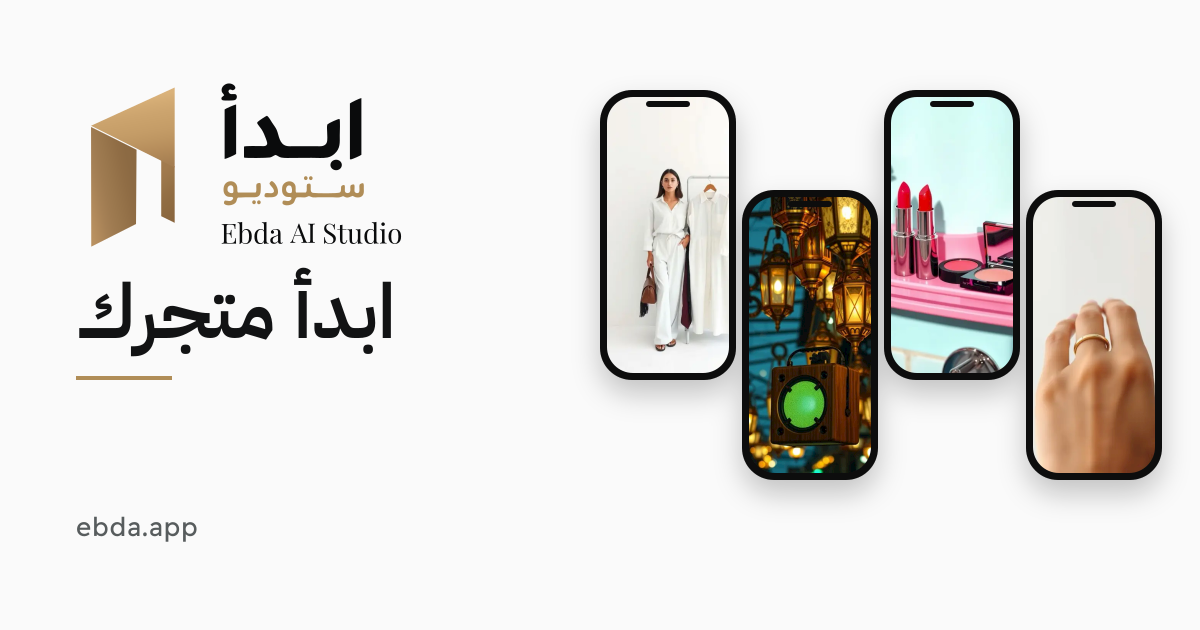
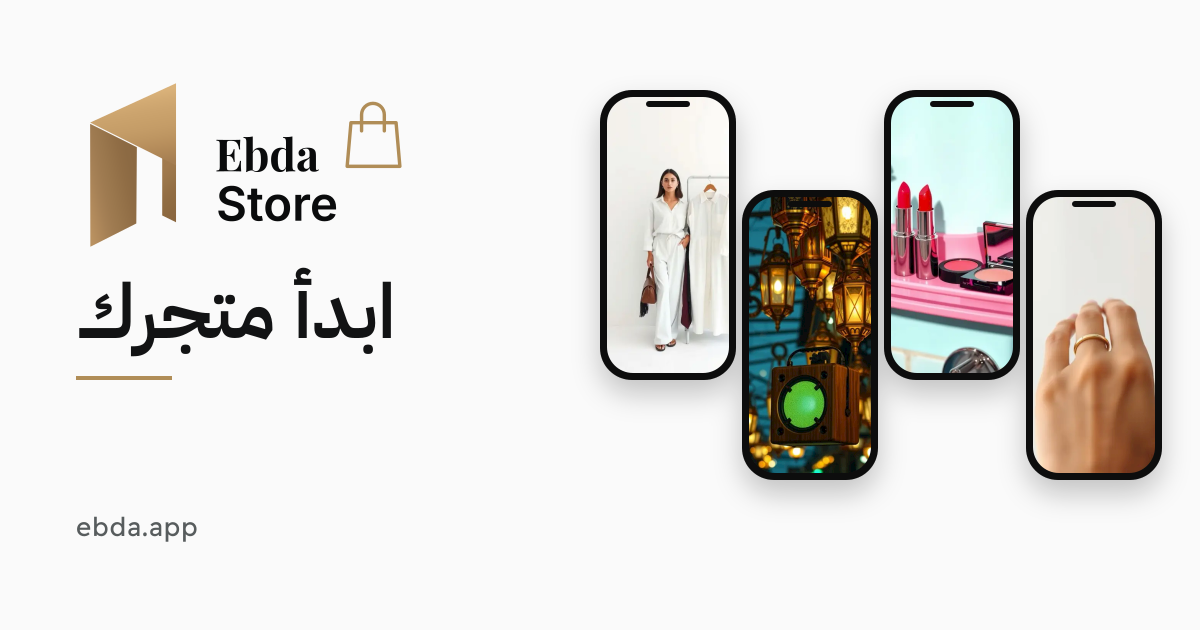
fix(brand): one-ink storefront badge mark, ebda store lockup for og and json-ld, login polish
Claude-Session: https://claude.ai/code/session_01GeHFETcBQ3jaGrN6Q6L6W5

diff --git a/apps/web/src/templates/shared/PoweredByEbda.tsx b/apps/web/src/templates/shared/PoweredByEbda.tsx
@@ -54,16 +54,23 @@ export function PoweredByEbda({ hidden = false }: { hidden?: boolean }) {
             the brand gold (#B08D57) measured 3.09:1 on a white footer (STOP 1, Ruling B1-27), and
             the line is the full muted tone (the old /70 alpha also fell under 4.5:1). On a
             merchant-coloured footer both take the shared footer ink ([data-footer-ink], footer-ink.ts). */}
-        {/* The approved Ebda mark (2026-10-22 pack), decorative: the link's aria-label carries the name. */}
-        {/* eslint-disable-next-line @next/next/no-img-element */}
-        <img
-          src="/logo.svg"
-          alt=""
+        {/* The approved Ebda mark (2026-10-22 pack) in ONE ink: currentColor, so it follows the footer ink
+            ([data-footer-ink], footer-ink.ts) on any merchant colour and is never gold on an arbitrary
+            background. The three faces keep their relative depth through opacity. Decorative. */}
+        <svg
+          viewBox="0 0 78.3 149"
           width={9}
           height={17}
-          className="h-4 w-auto"
+          className="h-4 w-auto shrink-0"
+          fill="currentColor"
           aria-hidden="true"
-        />
+          focusable="false"
+          data-testid="ebda-badge-mark"
+        >
+          <path d="M65.70 67.60 L78.30 73.90 L78.30 126.70 L65.70 120.50Z" opacity=".7" />
+          <path d="M0.00 35.80 L78.30 0.00 L78.30 74.90Z" />
+          <path d="M0.00 37.00 L42.60 58.30 L42.10 127.80 L0.20 149.00Z" opacity=".85" />
+        </svg>
         <span>{t('Powered by', 'مدعوم من')}</span>
         {/* IA-09 (W4): attribution never outweighs the store's own name: one muted weight. */}
         <span className="font-medium">{t(BRAND.product.nameEn, BRAND.product.nameAr)}</span>

diff --git a/tests/unit/powered-by-ebda-mark.test.tsx b/tests/unit/powered-by-ebda-mark.test.tsx
@@ -1,0 +1,35 @@
+// @vitest-environment jsdom
+import { describe, it, expect, vi } from 'vitest';
+import { render } from '@testing-library/react';
+import { readFileSync } from 'node:fs';
+import { join } from 'node:path';
+
+vi.mock('@web/contexts/LanguageContext', () => ({
+  useLanguage: () => ({ t: (en: string) => en, language: 'en', isRTL: false }),
+}));
+vi.mock('../../apps/web/src/contexts/LanguageContext', () => ({
+  useLanguage: () => ({ t: (en: string) => en, language: 'en', isRTL: false }),
+}));
+
+import { PoweredByEbda } from '../../apps/web/src/templates/shared/PoweredByEbda';
+
+const root = join(__dirname, '..', '..');
+
+describe('storefront "Powered by Ebda" mark', () => {
+  it('is one ink (currentColor): follows the merchant footer ink, never gold or a gradient', () => {
+    const { container } = render(<PoweredByEbda />);
+    const svg = container.querySelector('[data-testid="ebda-badge-mark"]')!;
+    expect(svg.getAttribute('fill')).toBe('currentColor');
+    const markup = svg.outerHTML;
+    expect(markup).not.toMatch(/#[0-9a-f]{3,8}/i);
+    expect(markup).not.toContain('url(');
+    expect(container.querySelector('img')).toBeNull();
+  });
+
+  it('every template footer (5 themes + Dahab) renders this one badge', () => {
+    for (const t of ['bold', 'classic', 'dahab', 'elegant', 'minimal', 'modern']) {
+      const src = readFileSync(join(root, `apps/web/src/templates/${t}/Footer.tsx`), 'utf8');
+      expect(src, t).toContain('<PoweredByEbda');
+    }
+  });
+});

diff --git a/apps/orders/src/app/login/page.tsx b/apps/orders/src/app/login/page.tsx
@@ -113,17 +113,17 @@ export default function LoginPage() {
               <img
                 src="/logo-on-light.svg"
                 alt={BRAND.product.nameEn}
-                className="h-16 w-auto dark:hidden"
-                width={34}
-                height={64}
+                className="h-12 w-auto dark:hidden"
+                width={25}
+                height={48}
               />
               {/* eslint-disable-next-line @next/next/no-img-element */}
               <img
                 src="/logo.svg"
                 alt={BRAND.product.nameEn}
-                className="hidden h-16 w-auto dark:block"
-                width={34}
-                height={64}
+                className="hidden h-12 w-auto dark:block"
+                width={25}
+                height={48}
               />
               <span className="text-lg font-semibold">{t.orders.title}</span>
             </div>

diff --git a/apps/admin/src/app/login/page.tsx b/apps/admin/src/app/login/page.tsx
@@ -286,20 +286,20 @@ export default function LoginPage() {
           </div>
           <DocumentTitle title={t('title')} />
           <div className="text-center">
-            <div className="flex justify-center">
+            <div className="flex items-center justify-center gap-3">
               <Image
                 src="/logo-on-light.svg"
                 alt={tb('brandAlt')}
-                width={32}
-                height={60}
+                width={21}
+                height={40}
                 className="dark:hidden"
                 unoptimized
               />
               <Image
                 src="/logo.svg"
                 alt={tb('brandAlt')}
-                width={32}
-                height={60}
+                width={21}
+                height={40}
                 className="hidden dark:block"
                 unoptimized
               />

diff --git a/apps/marketing/src/lib/seo.ts b/apps/marketing/src/lib/seo.ts
@@ -124,7 +124,7 @@ export function jsonLd(
         name: BRAND.product.nameEn,
         alternateName: [BRAND.product.nameAr, brandLine()],
         url: `${SITE_URL}/#store`,
-        logo: `${SITE_URL}/icon-512.png`,
+        logo: `${SITE_URL}/logo-store.png`,
         email: BRAND.supportEmail,
         parentOrganization: { '@id': org },
         sameAs: [] as string[],

diff --git a/apps/marketing/src/app/globals.css b/apps/marketing/src/app/globals.css
@@ -139,6 +139,7 @@ ol {
   display: inline-flex;
   align-items: center;
   gap: 8px;
+  min-height: 44px; /* touch target: the logo link is the home button */
   text-decoration: none;
   color: var(--fg);
   flex: none;
@@ -1583,7 +1584,7 @@ html[lang='ar'] .price {
   gap: 8px;
 }
 .footer-mark {
-  height: 24px;
+  height: 28px;
   width: auto;
 }
 .footer-h {
